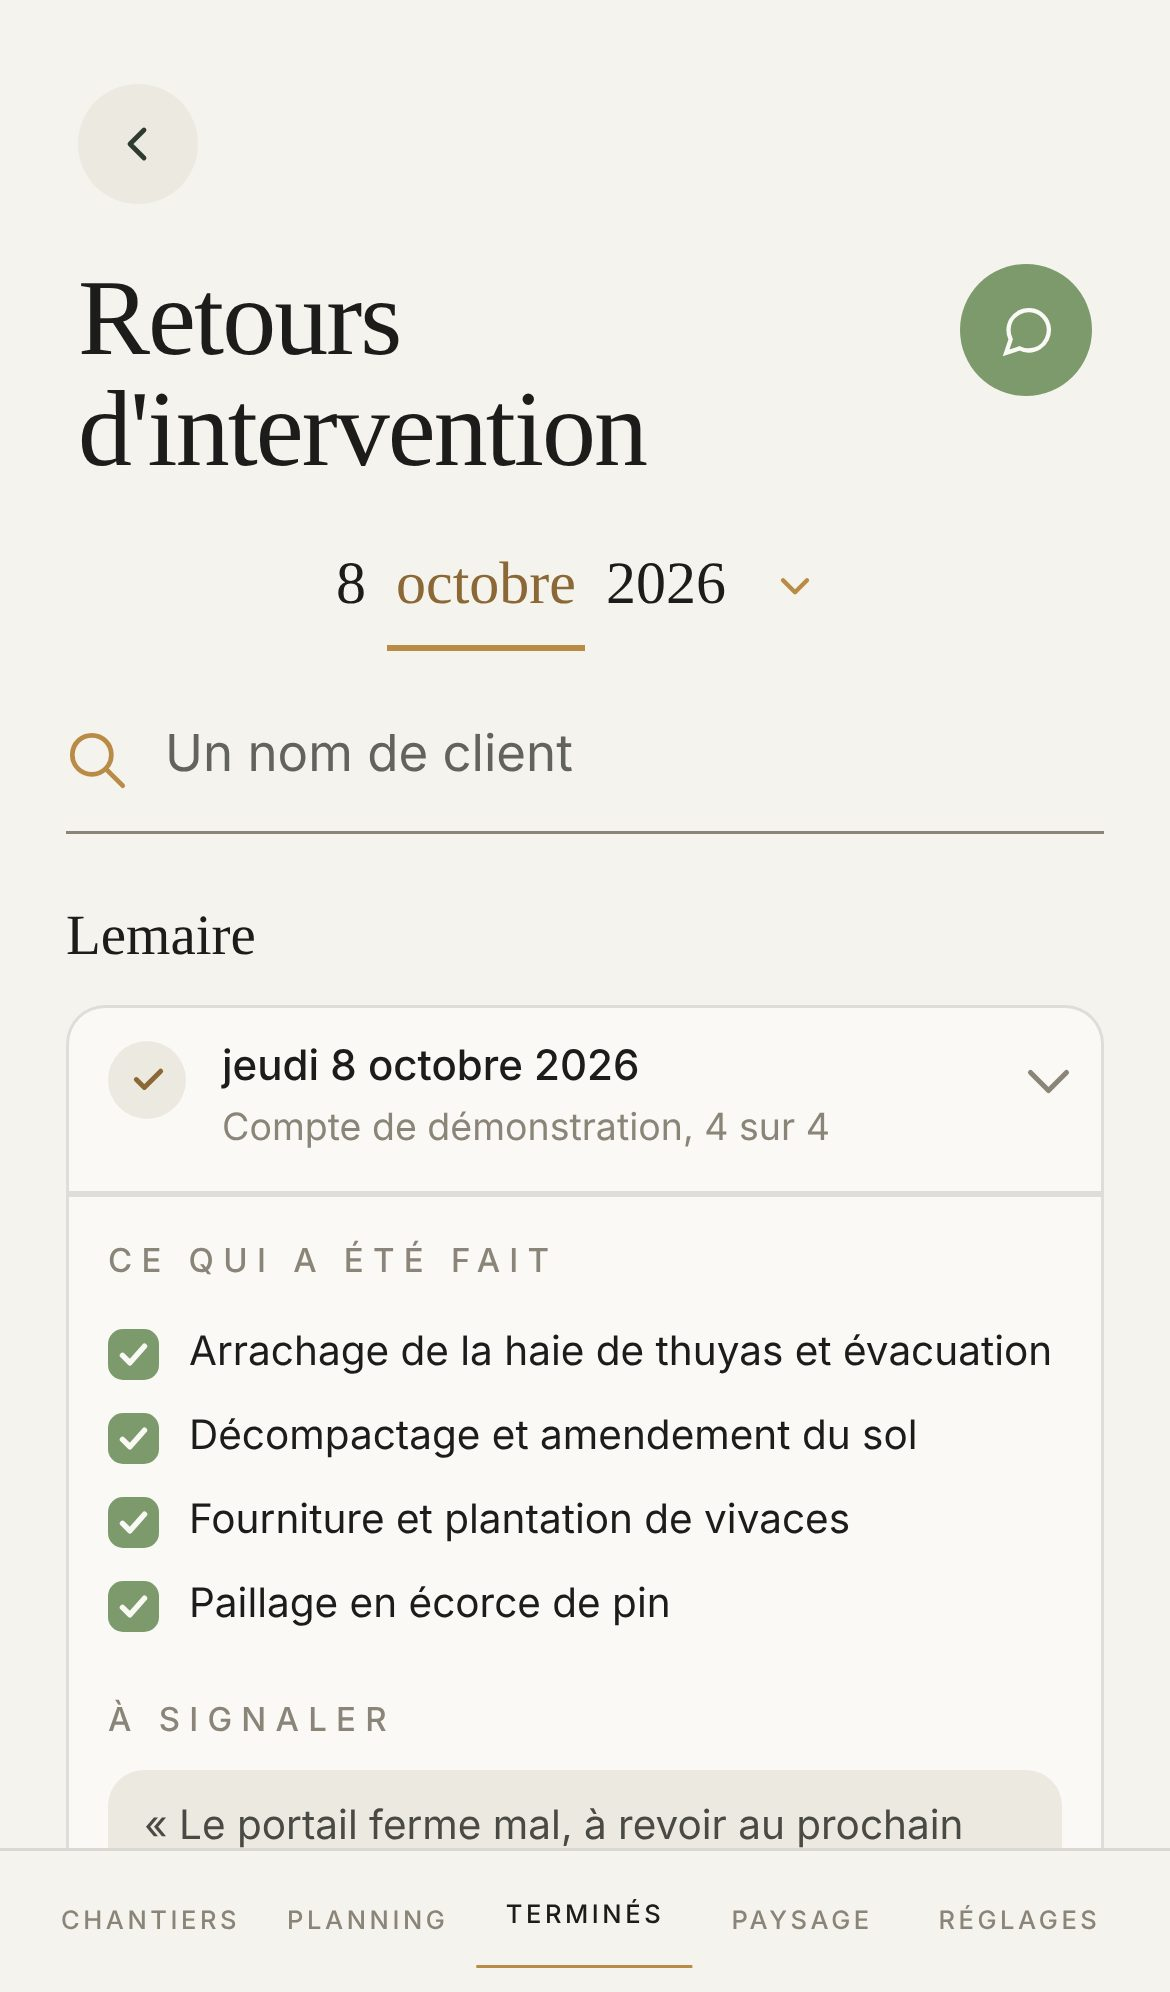
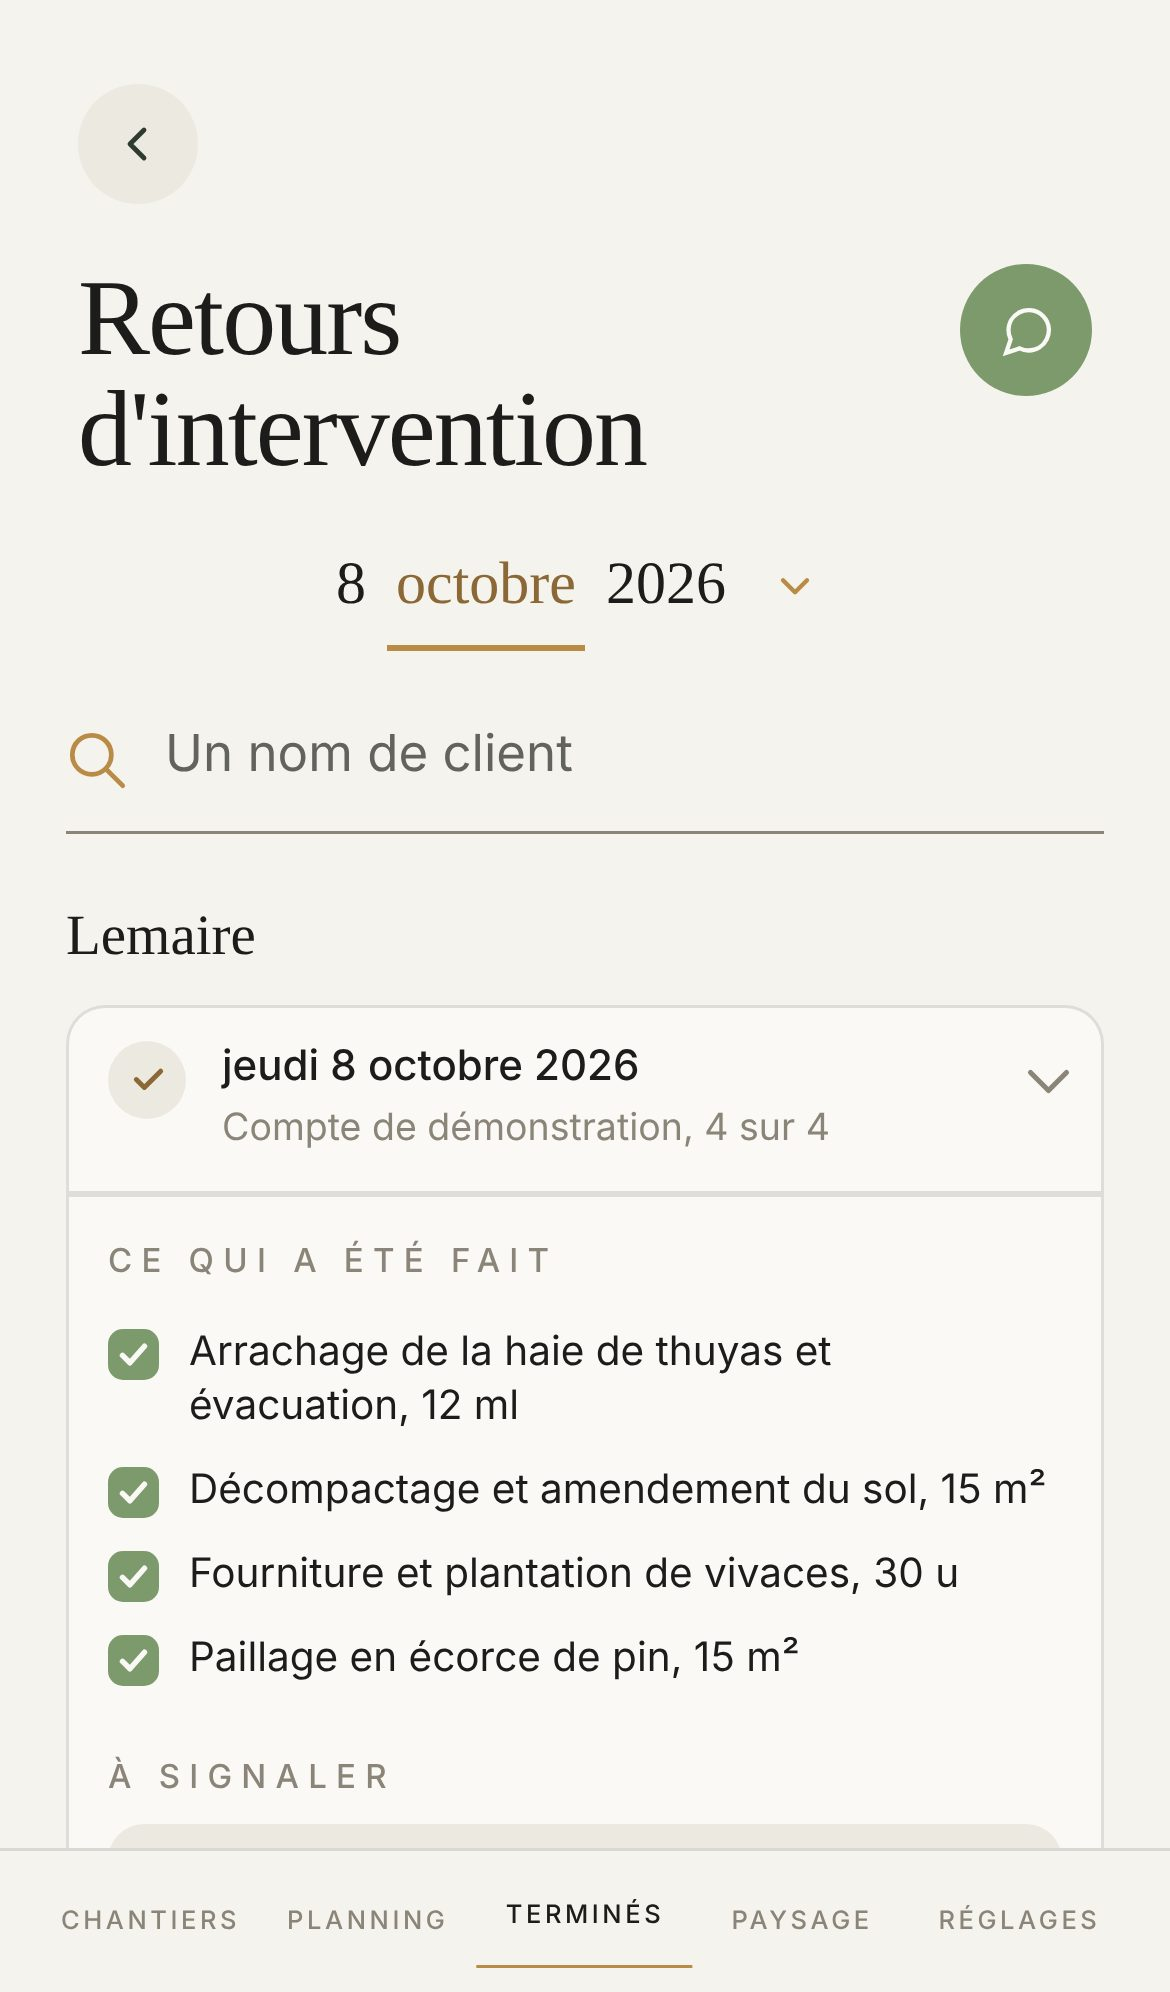
Montrer les travaux à faire et le retour du jour à la place de la sécurité
Il préfère voir ce que contient « Travaux à faire » plutôt que la fiche de
sécurité. La journée de Mr. Lemaire défile jusqu'à sa fiche, la liste
s'ouvre, les tâches sont cochées et le retour du jour part, par les vrais
boutons du planning : le retour d'intervention n'est plus écrit en base.
La facture vient de « Le chantier est réalisé ? Créer la facture », le
chemin réel le jour même, Terminés n'accueillant le chantier que le
lendemain.

Claude-Session: https://claude.ai/code/session_01NQoyfwDaCHL2WnQ4DJVN7i

Changed region(s): [[0.0923, 0.6847, 0.8308, 0.9337], [0.7077, 0.6536, 0.8923, 0.6847], [0.8615, 0.7159, 0.8923, 0.747]]

diff --git a/appli/vente/defilement.html b/appli/vente/defilement.html
@@ -26,9 +26,9 @@
   que l'Arcep réserve aux œuvres de fiction ; Valmorin est une commune inventée,
   pour qu'aucune adresse ne tombe chez quelqu'un. Tout est passé par les boutons
   de l'application (fiche remplie, devis rédigé, envoi, accord du client sur sa
-  page, salariés posés, facture, encaissement), sauf ce qui demande un compte
-  salarié : le retour d'intervention et la fin du chantier ont été écrits dans la
-  base d'essai. Les autres chantiers du planning sont ceux du jeu d'essai.
+  page, salariés posés, travaux cochés et retour du jour envoyé, facture,
+  encaissement). Les autres chantiers du planning sont ceux du jeu d'essai,
+  posés en base pour donner ses couleurs au mois.
   Les anneaux qui battent autour d'un bouton sont les seuls traits dessinés
   par-dessus une capture : ils montrent où l'on appuie.
 
@@ -226,13 +226,13 @@ h1,h2{font-family:var(--display);font-weight:400;line-height:1.02;letter-spacing
   var IMG = {
     chantiers:"images/accueil.jpg", vide:"images/feuille-vide.jpg", client:"images/feuille-remplie.jpg",
     devis:"images/devis-entier.jpg", devisfin:"images/devis-fin.jpg", dateouverte:"images/date-ouverte.jpg", datechoisie:"images/date-choisie.jpg", accepte:"images/accord.jpg", merci:"images/accord-merci.jpg",
-    planning:"images/planning-mois.jpg", jour:"images/planning-jour.jpg", securite:"images/securite.jpg",
-    retour:"images/retour.jpg", termines:"images/termines-a-facturer.jpg",
+    planning:"images/planning-mois.jpg", jour:"images/planning-jour.jpg", travaux:"images/planning-travaux.jpg", envoye:"images/retour-envoye.jpg",
+    retour:"images/retour.jpg", factureavant:"images/facture-avant.jpg",
     facture:"images/facture.jpg", tva:"images/tva-octobre.jpg"
   };
   // Hauteur sur largeur de chaque capture. Le devis est pris en entier, du haut à la signature.
   // Le devis entier finit sur l'écran réel de son bas, bouton « Choisir la date » compris.
-  var RAPPORT = {devis: 8418 / 1170, jour: 4450 / 1170};
+  var RAPPORT = {devis: 8418 / 1170, jour: 5058 / 1170, travaux: 6357 / 1170};
   function rapport(img){ return RAPPORT[img] || 1992 / 1170; }
 
   // Ce qu'on lit sous la page, et le moment de la journée.
@@ -245,9 +245,9 @@ h1,h2{font-family:var(--display);font-weight:400;line-height:1.02;letter-spacing
     {u:13.4, mot:"Accord",   txt:"Le client accepte depuis son téléphone.",  jour:"Devis envoyé", img:"accepte"},
     {u:15.6, mot:"Planning", txt:"Le chantier se pose au planning.",          jour:"Devis envoyé", img:"planning"},
     {u:17.0, mot:"Le jour J", txt:"Appeler le client, ouvrir Maps, poser l'équipe.", jour:"Devis envoyé", img:"jour"},
-    {u:19.8, mot:"Sécurité", txt:"La fiche de sécurité, déjà remplie d'après le chantier.", jour:"Devis envoyé", img:"securite"},
+    {u:19.0, mot:"Travaux", txt:"Les travaux du jour, cochés par l'équipe.", jour:"Devis envoyé", img:"travaux"},
     {u:21.7, mot:"Retour",   txt:"Ce que l'équipe a fait, et ce qu'elle signale.", jour:"Devis envoyé", img:"retour"},
-    {u:23.9, mot:"Facture",  txt:"Le chantier fini, la facture reprend le devis.", jour:"Devis envoyé", img:"termines"},
+    {u:23.7, mot:"Facture",  txt:"Le chantier réalisé, la facture reprend le devis.", jour:"Devis envoyé", img:"factureavant"},
     {u:28.2, mot:"TVA",      txt:"Votre TVA du mois, sans calculatrice.",     jour:"Devis envoyé", img:"tva"}
   ];
 
@@ -443,7 +443,9 @@ h1,h2{font-family:var(--display);font-weight:400;line-height:1.02;letter-spacing
   var POULS_CREER = {x:22, y:23.3, l:56, h:7};
   var POULS_MICRO = {x:39.65, y:82, l:20.7, h:12.1, rond:true};
   var POULS_ACCORD = {x:4, y:81.8, l:92, h:7.5};
-  var POULS_FACTURER = {x:61, y:68.5, l:33, h:6.7};
+  var POULS_FACTURER = {x:26, y:46.5, l:48, h:7};
+  var POULS_TRAVAUX = {x:4, y:85.5, l:92, h:7};
+  var POULS_RETOUR = {x:23, y:88.5, l:54, h:6.5};
   var POULS_JOUR = {x:43.5, y:50.5, l:13, h:8};
   var U = 30.3;
 
@@ -510,16 +512,21 @@ h1,h2{font-family:var(--display);font-weight:400;line-height:1.02;letter-spacing
     else if (u < 14.1) a = journal("merci", "planning", (u - 12.5) / 1.6);
     else if (u < 14.6) a = {img:"planning", pouls:Object.assign({v:entre(u, 14.15, 14.3) * (1 - entre(u, 14.45, 14.6)), rond:true}, POULS_JOUR)};
     else if (u < 15.0){ var tj = lisse((u - 14.6) / 0.4); a = {img:"planning", o:1 - tj}; b = {img:"jour"}; }
-    // La journée ouverte se lit en entier : la page descend jusqu'à la fiche d'intervention.
-    else if (u < 16.4) a = {img:"jour", defile:0.8 * lisse((u - 15.0) / 1.4)};
-    else if (u < 17.0) a = {img:"jour", defile:0.8};
-    else if (u < 18.0){ var ts = u - 17.0; b = {img:"securite", s:0.96 + 0.04 * ts}; a = Object.assign({img:"jour", defile:0.8}, tourner(ts)); }
-    else if (u < 18.6) a = {img:"securite"};
-    else if (u < 20.2) a = journal("securite", "retour", (u - 18.6) / 1.6);
-    else if (u < 20.8) a = {img:"retour"};
-    else if (u < 22.4) a = journal("retour", "termines", (u - 20.8) / 1.6);
-    else if (u < 23.3) a = {img:"termines", pouls:Object.assign({v:entre(u, 22.5, 22.7) * (1 - entre(u, 23.05, 23.25))}, POULS_FACTURER)};
-    else if (u < 24.3){ var tf = u - 23.3; b = {img:"facture", s:0.96 + 0.04 * tf}; a = Object.assign({img:"termines"}, tourner(tf)); }
+    // La journée ouverte se lit jusqu'à sa fiche ; « Travaux à faire » s'ouvre
+    // (la capture ouverte est identique au pixel jusqu'à cette ligne), les tâches
+    // sont cochées, et le retour du jour part. Sa demande du 8 octobre.
+    else if (u < 16.2) a = {img:"jour", defile:0.571 * lisse((u - 15.0) / 1.2)};
+    else if (u < 16.7) a = {img:"jour", defile:0.571, pouls:Object.assign({v:entre(u, 16.25, 16.4) * (1 - entre(u, 16.55, 16.7))}, POULS_TRAVAUX)};
+    else if (u < 16.95){ var to = lisse((u - 16.7) / 0.25); a = {img:"jour", defile:0.571, o:1 - to}; b = {img:"travaux", defile:0.401}; }
+    else if (u < 18.2) a = {img:"travaux", defile:0.401 + 0.265 * lisse((u - 16.95) / 1.25)};
+    else if (u < 18.7) a = {img:"travaux", defile:0.666, pouls:Object.assign({v:entre(u, 18.25, 18.4) * (1 - entre(u, 18.55, 18.7))}, POULS_RETOUR)};
+    else if (u < 19.0){ var tv = lisse((u - 18.7) / 0.3); a = {img:"travaux", defile:0.666, o:1 - tv}; b = {img:"envoye"}; }
+    else if (u < 19.4) a = {img:"envoye"};
+    else if (u < 20.8) a = journal("envoye", "retour", (u - 19.4) / 1.4);
+    else if (u < 21.4) a = {img:"retour"};
+    else if (u < 22.4){ var tf0 = u - 21.4; b = {img:"factureavant", s:0.96 + 0.04 * tf0}; a = Object.assign({img:"retour"}, tourner(tf0)); }
+    else if (u < 23.3) a = {img:"factureavant", pouls:Object.assign({v:entre(u, 22.5, 22.7) * (1 - entre(u, 23.05, 23.25))}, POULS_FACTURER)};
+    else if (u < 24.3){ var tf = u - 23.3; b = {img:"facture", s:0.96 + 0.04 * tf}; a = Object.assign({img:"factureavant"}, tourner(tf)); }
     else if (u < 25.1) a = {img:"facture"};
     else if (u < 26.7) a = journal("facture", "tva", (u - 25.1) / 1.6);
     else { var fin = entre(u, 27.2, 28); a = {img:"tva", s:1 - 0.06 * fin, y:-H * 0.05 * fin, o:1 - fin * 0.5}; }

diff --git a/CHANGELOG.md b/CHANGELOG.md
@@ -42,6 +42,13 @@ planning, équipe, facture, TVA). Rien n'est codé dans l'application.
   ouverte défile jusqu'à la fiche d'intervention (Maps, Waze, Appeler le
   client, salariés). Le planning garde les couleurs de l'appli : vert foncé
   plein, vert clair à moitié, rouge quand il y a trop.
+- La fiche de sécurité est retirée (sa demande) : à sa place, « Travaux à
+  faire » s'ouvre dans la fiche du jour, les quatre tâches sont cochées, la
+  remarque écrite, et « Envoyer le retour du jour » part, le tout par les
+  boutons du planning. Le retour d'intervention n'est donc plus écrit en base.
+  « Terminés » est retiré aussi : un chantier du jour n'y entre que le
+  lendemain ; la facture vient de « Le chantier est réalisé ? Créer la
+  facture », le chemin réel du jour même.
 - L'envoi se voit (sa demande) : au bas du devis arrive « Choisir la date »,
   on l'appuie, le calendrier monte, le jeudi 8 est proposé, « Envoyer le
   devis », et le devis s'envole vers la page que reçoit le client. La capture
@@ -55,10 +62,9 @@ planning, équipe, facture, TVA). Rien n'est codé dans l'application.
   payé, TVA 143,70 €. Le numéro est dans la tranche 06 39 98 que l'Arcep
   réserve aux œuvres de fiction ; Valmorin est une commune inventée (la Base
   adresse nationale n'est pas joignable ici pour vérifier une rue). Tout est
-  passé par les boutons de l'application, sur une base d'essai réamorcée,
-  sauf ce qui demande un compte salarié : le retour d'intervention et la fin
-  du chantier ont été écrits dans la base. Les autres chantiers du planning
-  sont ceux du jeu d'essai, posés en base pour donner des couleurs.
+  passé par les boutons de l'application, sur une base d'essai réamorcée.
+  Les autres chantiers du planning sont ceux du jeu d'essai, posés en base
+  pour donner des couleurs.
 - Une tentative de jouer chaque étape à sa date en avançant l'horloge de la
   machine d'essai a été refusée par le garde de la session ; l'horloge a été
   remise à l'heure réelle, et tout le parcours a été rejoué le 8 octobre.
